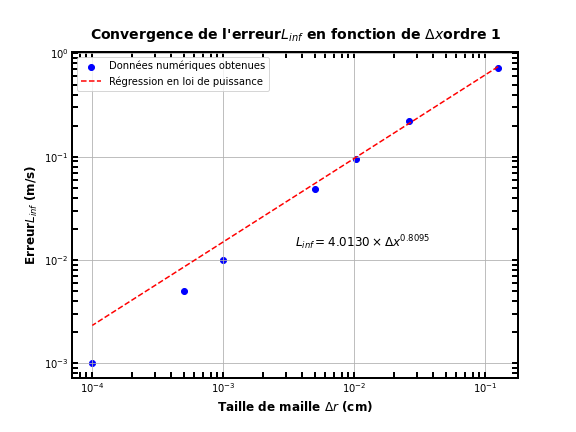
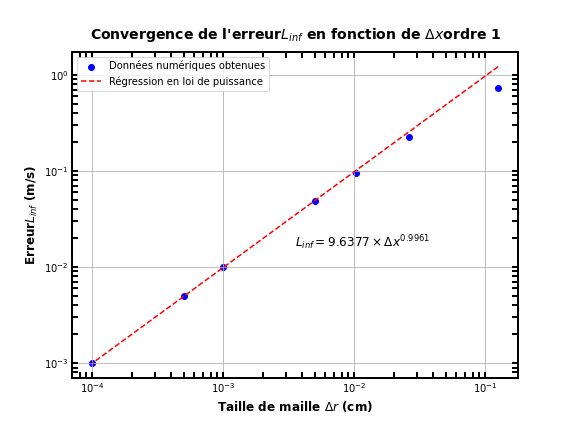
Correction Erreur
Avec le retour de monsieur Vidal

diff --git a/src/erreurs.py b/src/erreurs.py
@@ -1,5 +1,6 @@
 # -*- coding: utf-8 -*-
 from math import log
+import numpy as np
 """
 Fichier regroupant les fonctions de calcul d'erreur. 
 """
@@ -76,7 +77,7 @@ def erreur_Linf(domaine, results_numerique, results_analytique):
 def erreur_de_convergence_observe(params,n_values,Erreur_L1,Erreur_L2,Erreur_Linf):
     x_dr=[params.ro/(n_values[i]-1) for i in range(len(n_values))]
     print("Ordre de convergence observé")
-    print("Erreur L1 " + str(log(Erreur_L1[0]/Erreur_L1[2])/log(x_dr[0]/x_dr[2])))
-    print("Erreur L2 " +str((log(Erreur_L2[0]/Erreur_L2[2])/log(x_dr[0]/x_dr[2]))))
-    print("Erreur Linf " +str((log(Erreur_Linf[0]/Erreur_Linf[2])/log(x_dr[0]/x_dr[2]))))
+    print("Erreur L1 " + str(np.polyfit(np.log(x_dr[4:]), np.log(Erreur_L1[4:]), 1)[0]))
+    print("Erreur L2 " + str(np.polyfit(np.log(x_dr[4:]), np.log(Erreur_L2[4:]), 1)[0]))
+    print("Erreur Linf " + str(np.polyfit(np.log(x_dr[4:]), np.log(Erreur_Linf[4:]), 1)[0]))
     ### Question F: Profils avec différentiation ordre 2 

diff --git a/src/visualisation.py b/src/visualisation.py
@@ -107,8 +107,8 @@ def graphique_erreur(titre,x_values, y_values):
            nom_erreur=f'L{i+1}'
         else:
            nom_erreur='$L_{inf}$'
-        
-        coefficients = np.polyfit(np.log(x_dr[:3]), np.log(error_values[:3]), 1)
+
+        coefficients = np.polyfit(np.log(x_dr[4:]), np.log(error_values[4:]), 1)
         exponent = coefficients[0]
     
         # Fonction de régression en termes de logarithmes
